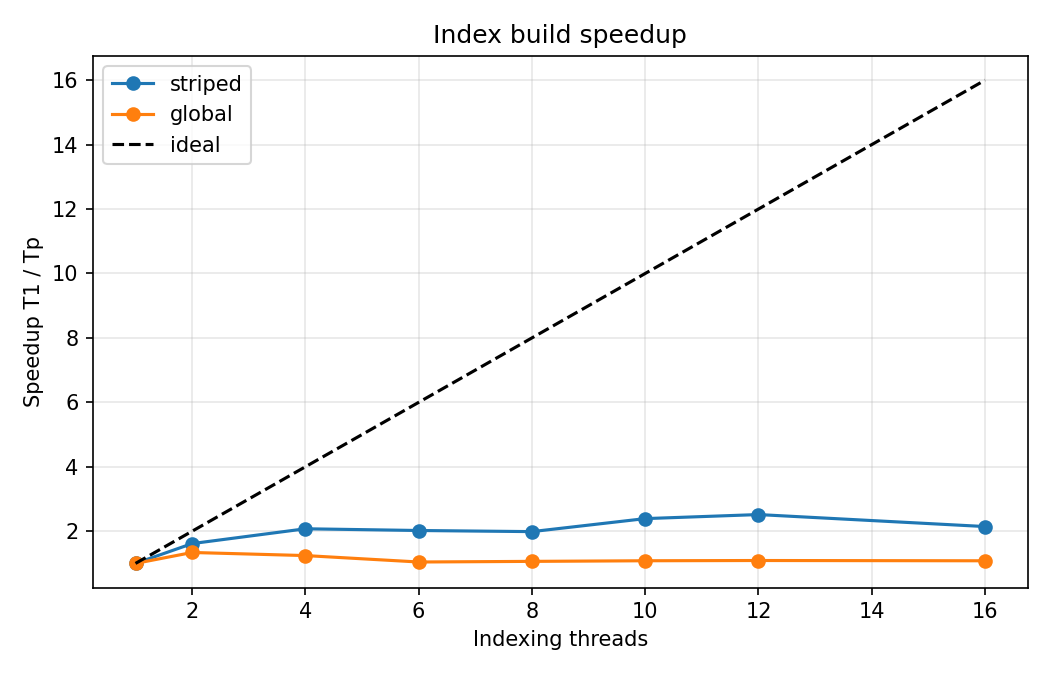
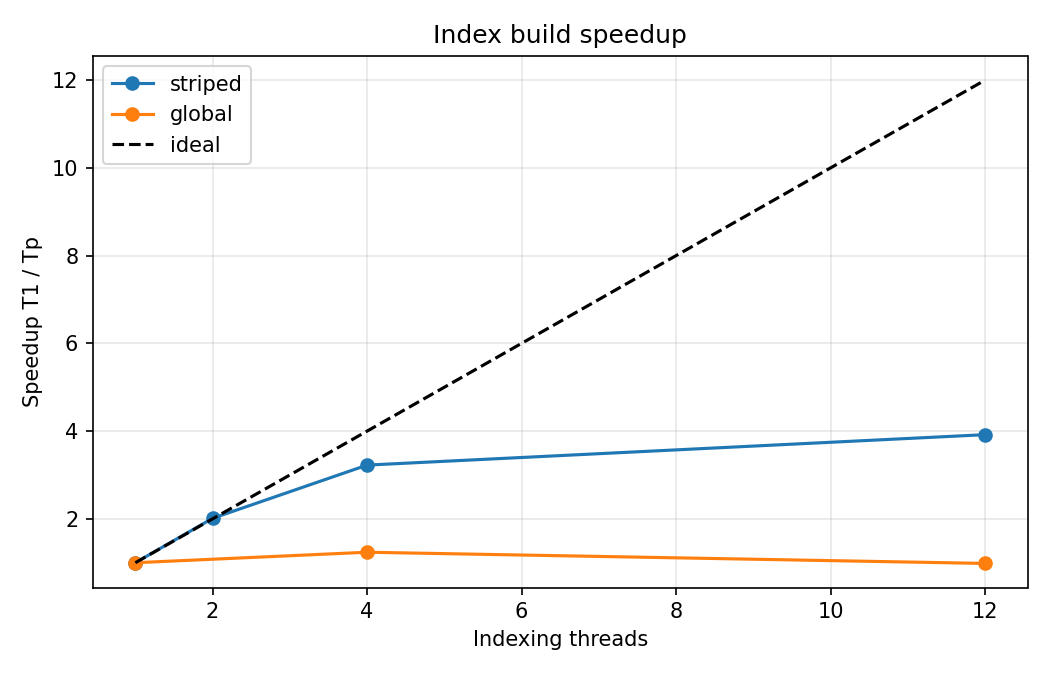
chore: rerun benchmarks on current code and update charts

diff --git a/README.md b/README.md
@@ -122,9 +122,10 @@ curl -XPOST localhost:8080/api/index -H 'content-type: application/json' -d '{"t
 ![Пропускна здатність](docs/report/throughput_vs_clients.png)
 ![Затримка](docs/report/latency_vs_clients.png)
 
-- Побудова індексу (striped): 102 с (1 потік) → 41 с (12 потоків), прискорення ~2,5×, плато після ~4 потоків: читання ~495 тис. малих файлів через файлове спільне використання Docker і алокації/GC.
-- З глобальним м'ютексом найкраще 2 потоки (79 с), далі час повертається до ~100 с через конкуренцію за м'ютекс.
-- Пошук (без розширення): 297 запитів/с (1 клієнт) → пік 1187 запитів/с (8 клієнтів), далі пропускна здатність не росте, а затримка зростає (обмеження — CPU).
+- Побудова індексу (striped): 123 с (1 потік) → 38 с (4 потоки) → 31 с (12 потоків), прискорення ~3,9×; після ~4 потоків приріст малий: читання ~495 тис. малих файлів через файлове спільне використання Docker і алокації/GC.
+- З глобальним м'ютексом: 90 с (1 потік) → 72 с (4 потоки) → 91 с (12 потоків) — потоки чекають на один м'ютекс, тому більше потоків не допомагає.
+- Пошук (без розширення): 369 запитів/с (1 клієнт) → ~880 запитів/с (8+ клієнтів), далі пропускна здатність не росте, а затримка зростає (обмеження — CPU).
+- З розширенням запиту (LLM) ~1,1 запиту/с: модель обробляє запити по одному, тому більше клієнтів лише збільшує затримку.
 - Розширення запиту займає близько 1 с після завантаження моделі (перший запит ≈ 15–20 с); для цього `OLLAMA_NUM_THREAD` має дорівнювати кількості продуктивних ядер (на Apple M4 — 4).
 
 Якість пошуку: [docs/report/search-quality.md](docs/report/search-quality.md).
